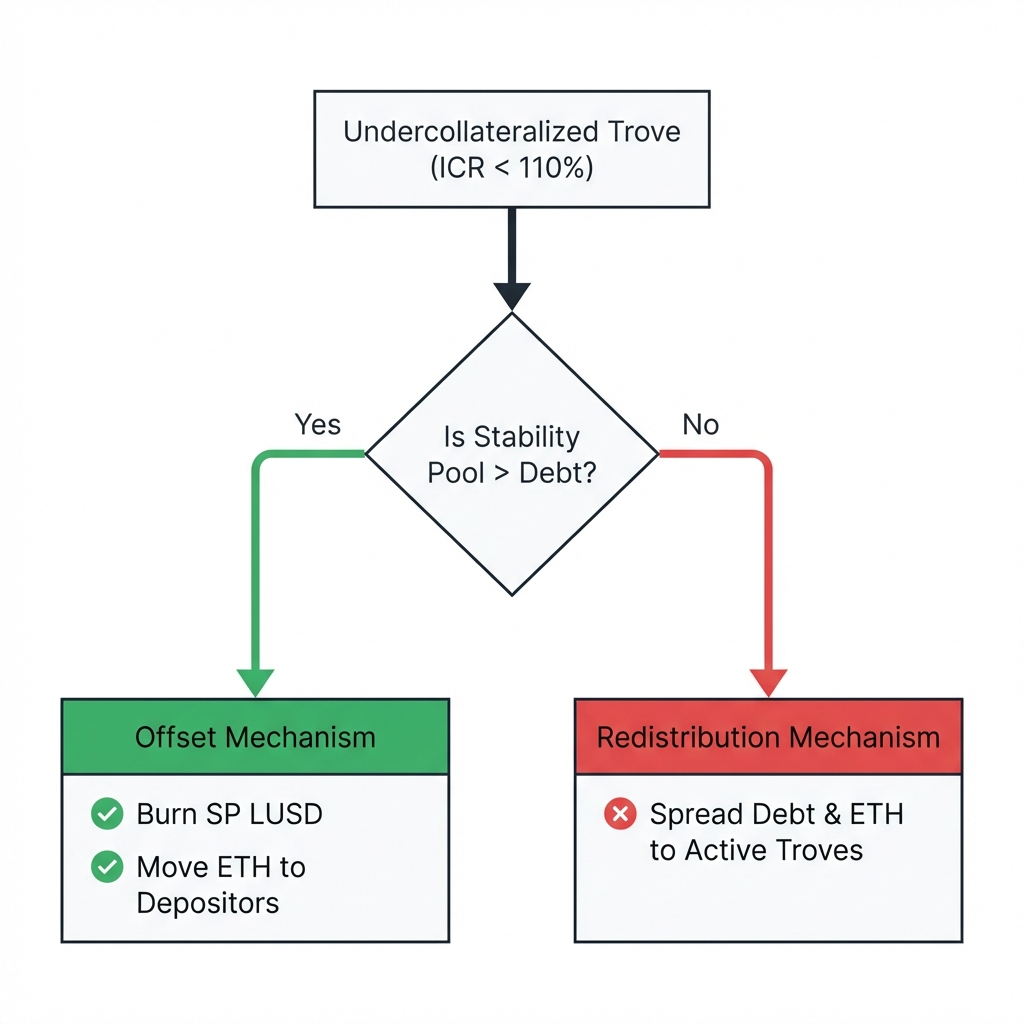
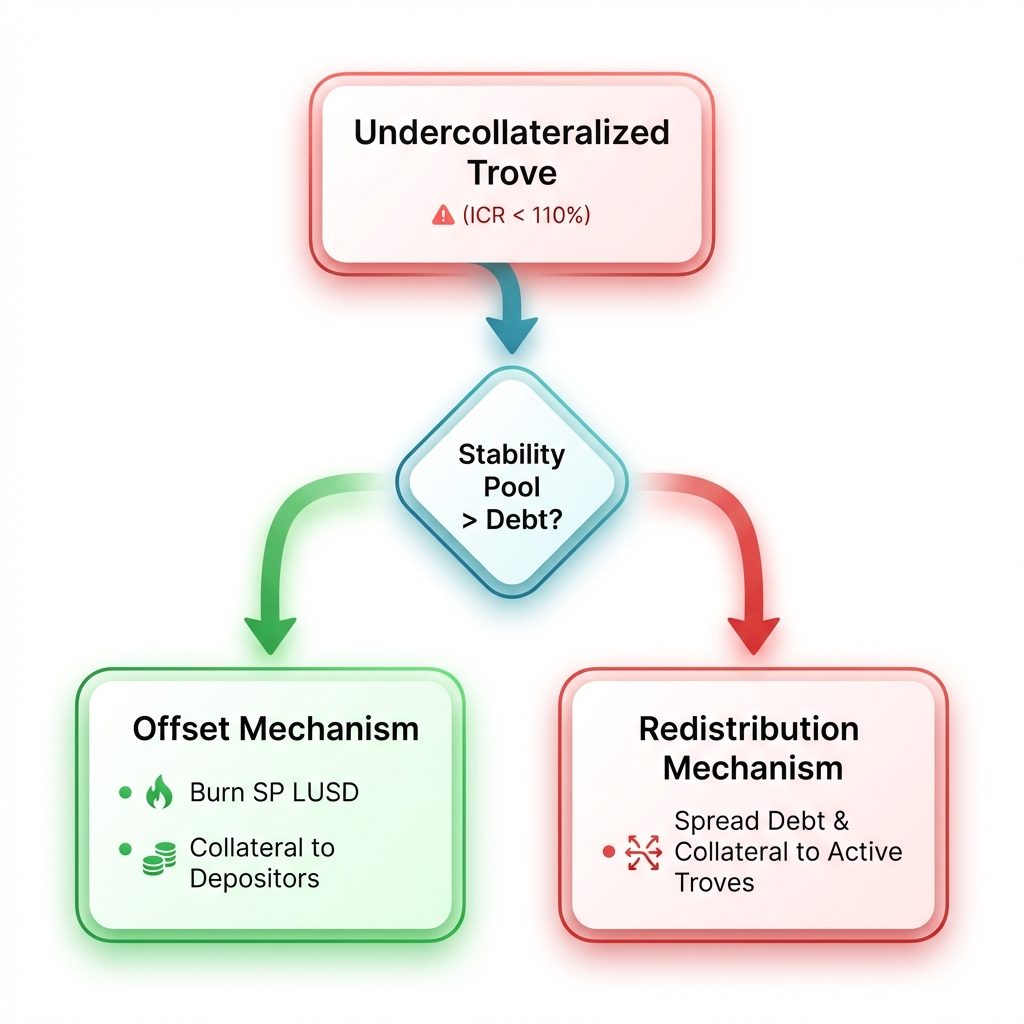
Add Framework Compliance Report

Changed region(s): [[0.0312, 0.0625, 0.9688, 0.9688]]

diff --git a/challenge-research-coad1024/research/00_canonical/Framework_Compliance_Report.md b/challenge-research-coad1024/research/00_canonical/Framework_Compliance_Report.md
@@ -1,0 +1,69 @@
+# Research Framework Compliance Report
+
+**Date:** January 2026
+**Scope:** `research/00_canonical` (Sky Ecosystem, Liquity V1, Liquity V2)
+**Objective:** Assess the application of standardized frameworks defined in `research/01_frameworks`.
+
+---
+
+## 1. Executive Summary
+
+The project has successfully defined three core analytical frameworks:
+
+1. **Backing Mechanism** (`general_backing_framework.md`)
+2. **Sustainability** (`Stablecoin-Sustainability-Framework.md`)
+3. **Decentralization** (`Stablecoin-Decentralization-Framework.md`)
+
+**Compliance Verdict:**
+
+* **Liquity V1/V2 Backing Artifacts** represent the **Gold Standard** of compliance, featuring correct directory structures, high-fidelity visualizations, and rigorous citation standards (APA + Anchor Tags).
+* **Sky Ecosystem Artifacts** contain high-quality content but suffer from **Legacy Constraints** (Directory typos, non-standard citations).
+* **Liquity Decentralization/Sustainability** artifacts are content-complete but require citation standardization.
+
+---
+
+## 2. Compliance Matrix
+
+| Protocol | Domain | Structure | Content Depth | Citation Standard | Status |
+| :--- | :--- | :--- | :--- | :--- | :--- |
+| **Sky Ecosystem** | Backing | ✅ Pass | ✅ High | ✅ Pass | 🟢 Compliant |
+| | Sustainability | ❌ **Typo** | ✅ High | ❌ Legacy | 🟡 Review Needed |
+| | Decentralization | ❌ **Typo** | ✅ High | ❌ Legacy | 🟡 Review Needed |
+| **Liquity V1** | Backing | ✅ Pass | ✅ High | ✅ **Gold** | 🟢 **Exemplary** |
+| | Sustainability | ✅ Pass | ✅ High | ❌ Legacy | 🟡 Review Needed |
+| | Decentralization | ✅ Pass | ✅ High | ❌ Legacy | 🟡 Review Needed |
+| **Liquity V2** | Backing | ✅ Pass | ✅ High | ✅ Pass | 🟢 Compliant |
+| | Sustainability | ✅ Pass | ✅ High | ❌ Legacy | 🟡 Review Needed |
+| | Decentralization | ✅ Pass | ✅ High | ❌ Legacy | 🟡 Review Needed |
+
+*(Legend: **Typo** = Directory named `Atrifact` instead of `Artifact`. **Legacy** = Uses generic bullet points instead of Anchor Tags.)*
+
+---
+
+## 3. Detailed Audit Findings
+
+### 3.1 Sky Ecosystem
+
+* **Issue A (Structure):** The Sustainability and Decentralization directories use the folder name `Atrifact` (Typo).
+  * *Path:* `research/00_canonical/Sky Ecosystem/Decentralization/Atrifact/`
+* **Issue B (Citations):** The `Sky_Decentralization_Profile_Jan2026.md` uses generic data sources:
+  * *Current:* `* Sky Governance Portal API`
+  * *Required:* `<span id="ref-sky-gov"></span>Sky Ecosystem. (2026). *Governance Portal API*.`
+
+### 3.2 Liquity V1
+
+* **Success:** The Backing Mechanism artifacts (`Profile` and `DeepDive`) fully implement the **Visual Upgrade** (Premium Diagrams) and **Citation Standards** (Anchor Tags).
+* **Gap:** The Sustainability and Decentralization profiles still need the "Citation Polish" pass to match the Backing artifacts.
+
+### 3.3 Liquity V2
+
+* **Success:** Backing artifacts are structurally perfect.
+* **Gap:** Similar to V1, the other verticals need a citation update.
+
+---
+
+## 4. Recommendations
+
+1. **Immediate Fix:** Rename all `Atrifact` directories to `Artifact` to ensure script compatibility.
+2. **Standardization:** Run a "Citation Sprint" to update Sky and Liquity Sustainability/Decentralization artifacts to the `Liquity_V1_Backing_DeepDive.md` standard.
+3. **Visualization:** Port the "Premium Diagram" style from Liquity V1 to Sky Ecosystem (e.g., redo the Sky Radar Chart in high-fidelity).

diff --git a/challenge-research-coad1024/research/00_canonical/Liquity/01_V1_LUSD/Backing Mechanism/Artifact/Liquity_V1_Backing_Profile.md b/challenge-research-coad1024/research/00_canonical/Liquity/01_V1_LUSD/Backing Mechanism/Artifact/Liquity_V1_Backing_Profile.md
@@ -11,7 +11,7 @@
 
 **Status:** 🟢 **The Platinum Standard**
 
-Liquity V1 is the "Hard Rock" of decentralized stablecoins. It represents the theoretical limit of **Immutable Solvency**. By accepting only Ether (ETH) as collateral and enforcing a rigid 110% Minimum Collateral Ratio (MCR) with **zero administrative keys**, it eliminates all counterparty and governance risks. Its solvency engine relies entirely on the **Stability Pool** (instant offset) and **Redistribution** (socialized debt), creating a system that is mathematically constrained to be solvent as long as the ETH price does not drop faster than the liquidation speed.
+Liquity V1 is the "Hard Rock" of decentralized stablecoins. It represents the theoretical limit of **Immutable Solvency**. By accepting only Ether (ETH) as collateral and enforcing a rigid 110% Minimum Collateral Ratio (MCR) with **zero administrative keys**, it eliminates all counterparty and governance risks. Its solvency engine relies entirely on the **Stability Pool** (instant offset) and **Redistribution** (socialized debt), creating a system that is mathematically constrained to be solvent as long as the ETH price does not drop faster than the liquidation speed ([Internal Research, 2026](#ref-general-framework)).
 
 ### The Solvency Lens
 
@@ -70,4 +70,6 @@ Liquity V1 is the "Hard Rock" of decentralized stablecoins. It represents the th
 
 ## References
 
-<span id="ref-liquity-v1-docs"></span>Liquity. (2021). *[Liquity V1 Documentation](https://docs.liquity.org/)*. Source Analysis.
+<span id="ref-liquity-v1-docs"></span>Liquity. (2021). *[Liquity V1 Documentation](https://docs.liquity.org/)*. Project Documentation.
+
+<span id="ref-general-framework"></span>Internal Research. (2026). *[General Backing Framework](../../../../../01_frameworks/general_backing_framework.md)*. Canonical Methodology.

diff --git a/challenge-research-coad1024/research/00_canonical/Liquity/01_V1_LUSD/Backing Mechanism/Artifact/Liquity_V1_Backing_DeepDive.md b/challenge-research-coad1024/research/00_canonical/Liquity/01_V1_LUSD/Backing Mechanism/Artifact/Liquity_V1_Backing_DeepDive.md
@@ -9,7 +9,7 @@
 
 ## Abstract
 
-This report analyzes the **Kinetic Solvency** of Liquity V1 (LUSD). Unlike "Gov-Managed" stablecoins (MakerDAO) or "Fiat-Wrappers" (USDC), Liquity V1 operates as an **Immutable Vault**. It couples a rigid over-collateralization requirement (110% MCR) with an atomic **Stability Pool** mechanism that prioritizes speed of liquidation over capital efficiency.
+This report analyzes the **Kinetic Solvency** of Liquity V1 (LUSD). Unlike "Gov-Managed" stablecoins (MakerDAO) or "Fiat-Wrappers" (USDC), Liquity V1 operates as an **Immutable Vault**. It couples a rigid over-collateralization requirement (110% MCR) with an atomic **Stability Pool** mechanism that prioritizes speed of liquidation over capital efficiency ([Liquity, 2021](#ref-liquity-technical)).
 
 The core insight is **Redemption-Driven Value**: LUSD is not "pegged" by a market maker, but by the protocol's unconditional promise to exchange 1 LUSD for $1 of ETH collateral, creating a hard arbitrage floor.
 
@@ -132,4 +132,6 @@ Liquity V1 achieves **Absolute Backing Confidence** by sacrificing **Capital Eff
 
 ## References
 
-<span id="ref-liquity-technical"></span>Liquity. (2021). *[Liquity Protocol README](https://github.com/liquity/dev/blob/main/README.md)*. Source Code Documentation.
+<span id="ref-liquity-technical"></span>Liquity. (2021). *[Liquity Protocol README](https://github.com/liquity/dev/blob/main/README.md)*. GitHub Repository.
+
+<span id="ref-general-framework"></span>Internal Research. (2026). *[General Backing Framework](../../../../../01_frameworks/general_backing_framework.md)*. Canonical Methodology.
